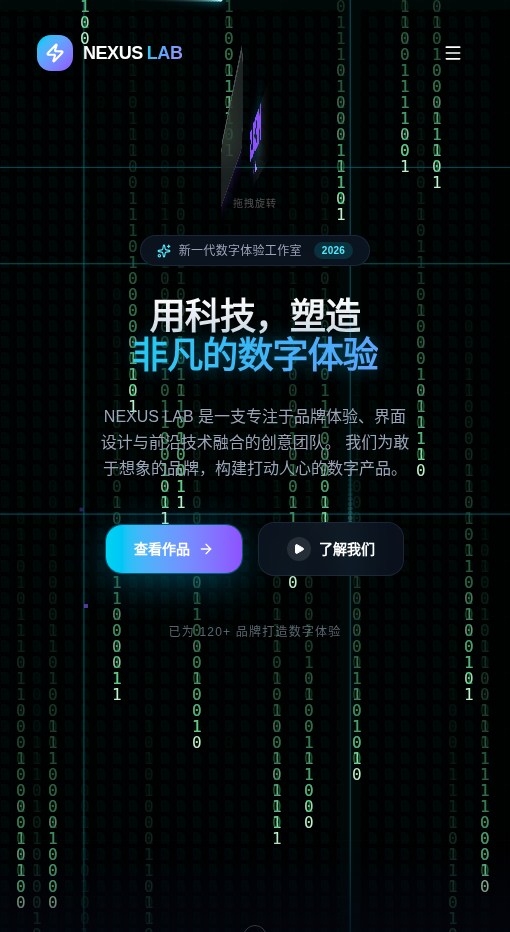
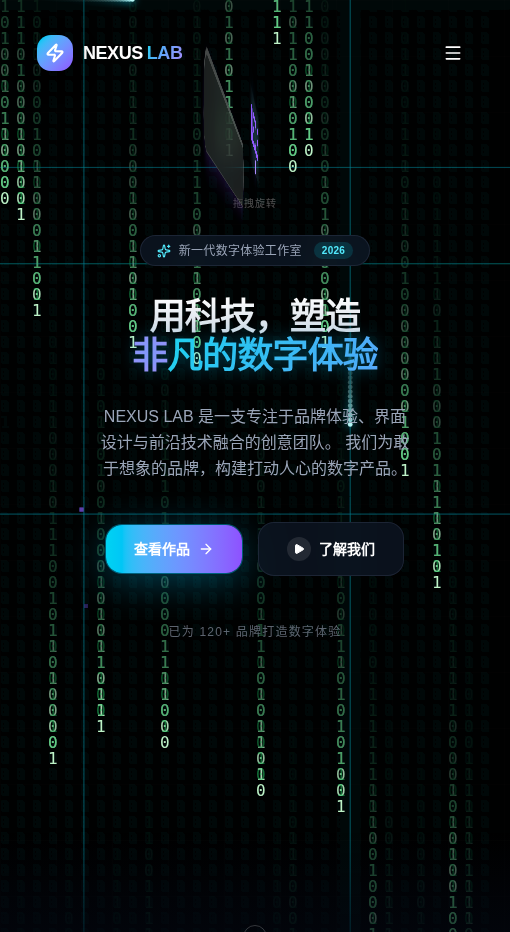
feat: 对话客户端支持工具调用，内置「调用另一个模型」工具（MCP 接入基础）

diff --git a/frontend/src/lib/providers/chatClient.ts b/frontend/src/lib/providers/chatClient.ts
@@ -12,6 +12,25 @@ export type StreamHandlers = {
   onToken: (t: string) => void;
   onModel?: (m: string) => void;
   onError: (e: string) => void;
+  /** 模型决定调用某个工具时回调（用于 UI 提示「正在调用 XX」） */
+  onToolCall?: (name: string) => void;
+};
+
+/** 一个可被模型调用的工具（OpenAI / OpenRouter 兼容格式） */
+export type ChatTool = {
+  type: "function";
+  function: {
+    name: string;
+    description: string;
+    parameters: Record<string, unknown>;
+  };
+};
+
+/** 模型返回的一次工具调用 */
+export type ToolCall = {
+  id: string;
+  name: string;
+  arguments: string;
 };
 
 const CODE_SYSTEM_PROMPT =
@@ -29,6 +48,10 @@ function buildEndpoint(base: string): string {
  * 通用流式对话客户端（OpenAI 兼容）。
  * 同一套代码既能接云端服务（OpenRouter），也能接本地/自建模型
  * （Ollama、LM Studio、vLLM 等），只需换接口地址和模型名。
+ *
+ * 支持工具调用（function calling）：传入 tools + executeTool 后，
+ * 若模型决定调用工具，会执行并把结果回传，再让模型产出最终回答。
+ * 这是接入 MCP / 调用其他模型的基础——把"别的模型"包成一个工具即可。
  */
 export async function streamChatCompletion(opts: {
   baseUrl: string;
@@ -36,24 +59,80 @@ export async function streamChatCompletion(opts: {
   model: string;
   mode: "chat" | "code";
   messages: ChatApiMessage[];
+  tools?: ChatTool[];
+  executeTool?: (call: ToolCall) => Promise<string>;
   handlers: StreamHandlers;
 }): Promise<void> {
   const { baseUrl, apiKey, model, mode, messages, handlers } = opts;
+  const tools = opts.tools;
+  const executeTool = opts.executeTool;
 
   if (!model) {
     handlers.onError("请先在「我的 → AI 接口设置」里填写模型名称");
     return;
   }
 
-  const finalMessages =
-    mode === "code"
-      ? [{ role: "system", content: CODE_SYSTEM_PROMPT }, ...messages]
-      : messages;
+  // 工作消息（会随工具调用轮次增长）
+  const working: any[] = messages.map((m) => ({ ...m }));
+  const MAX_ROUNDS = 4;
 
-  handlers.onModel?.(model);
+  for (let round = 0; round < MAX_ROUNDS; round++) {
+    const finalMessages =
+      mode === "code"
+        ? [{ role: "system", content: CODE_SYSTEM_PROMPT }, ...working]
+        : working;
+
+    const body: Record<string, unknown> = {
+      model,
+      messages: finalMessages,
+      stream: true,
+    };
+    // 仅在首轮声明工具，避免模型无限循环调用
+    if (round === 0 && tools?.length) body.tools = tools;
+
+    const run = await runStream({ baseUrl, apiKey, body, handlers, live: !(tools && tools.length) });
+    if (run.toolCalls.length === 0) {
+      // 没有工具调用：本轮就是最终回答（run 内部已流式输出）
+      return;
+    }
+
+    // 有工具调用：把 assistant 的工具调用与每个工具结果补回上下文，再让模型继续
+    working.push({
+      role: "assistant",
+      content: run.content || "",
+      tool_calls: run.toolCalls.map((t) => ({
+        id: t.id,
+        type: "function",
+        function: { name: t.name, arguments: t.arguments },
+      })),
+    });
+
+    for (const tc of run.toolCalls) {
+      handlers.onToolCall?.(tc.name);
+      let result: string;
+      try {
+        result = executeTool ? await executeTool(tc) : "（未提供工具执行器）";
+      } catch (e: any) {
+        result = `工具执行出错：${e?.message || e}`;
+      }
+      working.push({ role: "tool", tool_call_id: tc.id, content: result });
+    }
+  }
+
+  handlers.onError("工具调用轮次过多，已停止");
+}
+
+/** 执行一次流式请求，返回累积的内容与工具调用；可实时 or 缓冲输出 token */
+async function runStream(opts: {
+  baseUrl: string;
+  apiKey: string;
+  body: Record<string, unknown>;
+  handlers: StreamHandlers;
+  live: boolean;
+}): Promise<{ content: string; toolCalls: ToolCall[] }> {
+  const { baseUrl, apiKey, body, handlers, live } = opts;
 
   const headers: Record<string, string> = { "Content-Type": "application/json" };
-  // 本地服务通常不需要密钥，有密钥时才带上
   if (apiKey) headers.Authorization = `Bearer ${apiKey}`;
 
   let resp: Response;
@@ -61,13 +140,13 @@ export async function streamChatCompletion(opts: {
     resp = await fetch(buildEndpoint(baseUrl), {
       method: "POST",
       headers,
-      body: JSON.stringify({ model, messages: finalMessages, stream: true }),
+      body: JSON.stringify(body),
     });
   } catch (e: any) {
     handlers.onError(
       `${e?.message || "连接失败"}。若使用本地模型，请确认电脑已开机、手机与电脑在同一 WiFi，且地址填写正确。`,
     );
-    return;
+    return { content: "", toolCalls: [] };
   }
 
   if (!resp.ok || !resp.body) {
@@ -79,12 +158,14 @@ export async function streamChatCompletion(opts: {
       /* 忽略解析失败 */
     }
     handlers.onError(msg);
-    return;
+    return { content: "", toolCalls: [] };
   }
 
   const reader = resp.body.getReader();
   const decoder = new TextDecoder();
   let buffer = "";
+  let content = "";
+  const acc: Record<number, { id: string; name: string; arguments: string }> = {};
 
   try {
     while (true) {
@@ -99,12 +180,29 @@ export async function streamChatCompletion(opts: {
         if (!line.startsWith("data:")) continue;
 
         const payload = line.slice(5).trim();
-        if (payload === "[DONE]") return;
+        if (payload === "[DONE]") break;
 
         try {
           const json = JSON.parse(payload);
-          const delta = json?.choices?.[0]?.delta?.content;
-          if (typeof delta === "string" && delta) handlers.onToken(delta);
+          const choice = json?.choices?.[0];
+          const delta = choice?.delta;
+          if (!delta) continue;
+
+          if (typeof delta.content === "string" && delta.content) {
+            content += delta.content;
+            if (live) handlers.onToken(delta.content);
+          }
+
+          const tcs = delta.tool_calls;
+          if (Array.isArray(tcs)) {
+            for (const tc of tcs) {
+              const i = tc.index ?? 0;
+              if (!acc[i]) acc[i] = { id: "", name: "", arguments: "" };
+              if (tc.id) acc[i].id = tc.id;
+              if (tc.function?.name) acc[i].name = tc.function.name;
+              if (typeof tc.function?.arguments === "string") acc[i].arguments += tc.function.arguments;
+            }
+          }
         } catch {
           /* 忽略畸形分片 */
         }
@@ -112,5 +210,106 @@ export async function streamChatCompletion(opts: {
     }
   } catch (e: any) {
     handlers.onError(e?.message || "读取响应失败");
+  }
+
+  // 非实时模式（工具会话）：若本轮没产生工具调用，把缓冲内容一次性输出
+  if (!live && Object.keys(acc).length === 0 && content) {
+    handlers.onToken(content);
+  }
+
+  const toolCalls = Object.values(acc).map((t) => ({
+    id: t.id || `call_${Math.random().toString(36).slice(2)}`,
+    name: t.name,
+    arguments: t.arguments,
+  }));
+
+  return { content, toolCalls };
+}
+
+/** 一次性（非流式）调用另一个 OpenAI 兼容模型，返回文本 */
+export async function callModelOnce(opts: {
+  baseUrl: string;
+  apiKey: string;
+  model: string;
+  messages: ChatApiMessage[];
+}): Promise<string> {
+  const { baseUrl, apiKey, model, messages } = opts;
+  const headers: Record<string, string> = { "Content-Type": "application/json" };
+  if (apiKey) headers.Authorization = `Bearer ${apiKey}`;
+
+  const resp = await fetch(buildEndpoint(baseUrl), {
+    method: "POST",
+    headers,
+    body: JSON.stringify({ model, messages, stream: false }),
+  });
+  if (!resp.ok) {
+    const t = await resp.text().catch(() => "");
+    throw new Error(`子模型调用失败（${resp.status}）：${t.slice(0, 200)}`);
+  }
+  const data = await resp.json();
+  const c = data?.choices?.[0]?.message?.content ?? data?.content ?? "";
+  return typeof c === "string" ? c : JSON.stringify(c);
+}
+
+/**
+ * 内置工具：调用「另一个模型」。
+ * 把别的模型（本地或云端、任何 OpenAI 兼容服务）包成一个工具，
+ * 主模型就能在对话中按需把子任务转给它——这就是「AI 连到别的模型」的最小实现。
+ * 后续要接真正的 MCP，只需把 executeModelRouterTool 换成 MCP 客户端调用即可。
+ */
+export const MODEL_ROUTER_TOOL: ChatTool = {
+  type: "function",
+  function: {
+    name: "call_another_model",
+    description:
+      "当需要调用另一个 AI 模型来完成子任务时使用，例如换一个更擅长某领域的模型，或调用用户本地部署的专用模型。提供该模型的接口地址、模型名和要发送的内容。",
+    parameters: {
+      type: "object",
+      properties: {
+        endpoint: {
+          type: "string",
+          description: "目标模型的 OpenAI 兼容接口地址，例如 http://192.168.1.100:11434/v1 或 https://openrouter.ai/api/v1",
+        },
+        model: {
+          type: "string",
+          description: "目标模型名称，例如 qwen3-32b、deepseek-chat、glm-5.2",
+        },
+        prompt: {
+          type: "string",
+          description: "要发送给目标模型的完整内容",
+        },
+        api_key: {
+          type: "string",
+          description: "目标模型的 API Key（可选，本地模型可留空）",
+        },
+      },
+      required: ["endpoint", "model", "prompt"],
+    },
+  },
+};
+
+/** MODEL_ROUTER_TOOL 的执行器：调用另一个模型并拿回文本结果 */
+export async function executeModelRouterTool(call: ToolCall): Promise<string> {
+  let args: Record<string, unknown> = {};
+  try {
+    args = JSON.parse(call.arguments || "{}");
+  } catch {
+    return "工具参数解析失败";
+  }
+  const endpoint = args.endpoint as string;
+  const model = args.model as string;
+  const prompt = args.prompt as string;
+  if (!endpoint || !model || !prompt) return "缺少必要参数 endpoint / model / prompt";
+
+  try {
+    const text = await callModelOnce({
+      baseUrl: endpoint,
+      apiKey: (args.api_key as string) || "",
+      model,
+      messages: [{ role: "user", content: String(prompt) }],
+    });
+    return text.slice(0, 8000);
+  } catch (e: any) {
+    return `调用子模型失败：${e?.message || e}`;
   }
 }

diff --git a/frontend/src/components/landing/AIStudio.tsx b/frontend/src/components/landing/AIStudio.tsx
@@ -18,7 +18,7 @@ import {
 } from "lucide-react";
 import CodeRunner from "./CodeRunner";
 import { isNativeApp, isOpenRouter, loadSettings, type AppSettings } from "@/lib/settings";
-import { streamChatCompletion, type ChatApiMessage } from "@/lib/providers/chatClient";
+import { streamChatCompletion, type ChatApiMessage, MODEL_ROUTER_TOOL, executeModelRouterTool } from "@/lib/providers/chatClient";
 import { compressImageFile } from "@/lib/utils/image";
 import { loadChatHistory, saveChatHistory, clearChatHistory } from "@/lib/chatHistory";
 
@@ -213,6 +213,8 @@ const AIStudio = ({ embedded = false, defaultMode = "chat" }: { embedded?: boole
   const [chatInput, setChatInput] = useState("");
   const [sending, setSending] = useState(false);
   const [chatError, setChatError] = useState("");
+  // 工具调用提示（如 AI 正在调用另一个模型）
+  const [toolBusy, setToolBusy] = useState<string | null>(null);
 
   // 代码状态
   const [lang, setLang] = useState("TypeScript");
@@ -283,7 +285,9 @@ const AIStudio = ({ embedded = false, defaultMode = "chat" }: { embedded?: boole
           model: s.chatModel,
           mode,
           messages: msgs,
-          handlers: { onToken, onModel, onError },
+          tools: [MODEL_ROUTER_TOOL],
+          executeTool: executeModelRouterTool,
+          handlers: { onToken, onModel, onError, onToolCall: (name) => setToolBusy(name) },
         });
         return;
       }
@@ -398,6 +402,7 @@ const AIStudio = ({ embedded = false, defaultMode = "chat" }: { embedded?: boole
       },
     });
     setSending(false);
+    setToolBusy(null);
     setPendingImage(null);
   };
 
@@ -687,6 +692,12 @@ const AIStudio = ({ embedded = false, defaultMode = "chat" }: { embedded?: boole
                       <ImagePlus className="h-4 w-4" />
                     )}
                   </button>
+                  {toolBusy && (
+                    <div className="mb-2 inline-flex items-center gap-2 rounded-full bg-violet-500/15 px-3 py-1.5 text-[11px] text-violet-200">
+                      <span className="h-1.5 w-1.5 animate-pulse rounded-full bg-violet-300" />
+                      正在调用工具：{toolBusy === "call_another_model" ? "另一个 AI 模型" : toolBusy}
+                    </div>
+                  )}
                   <textarea
                     value={chatInput}
                     onChange={(e) => setChatInput(e.target.value)}
